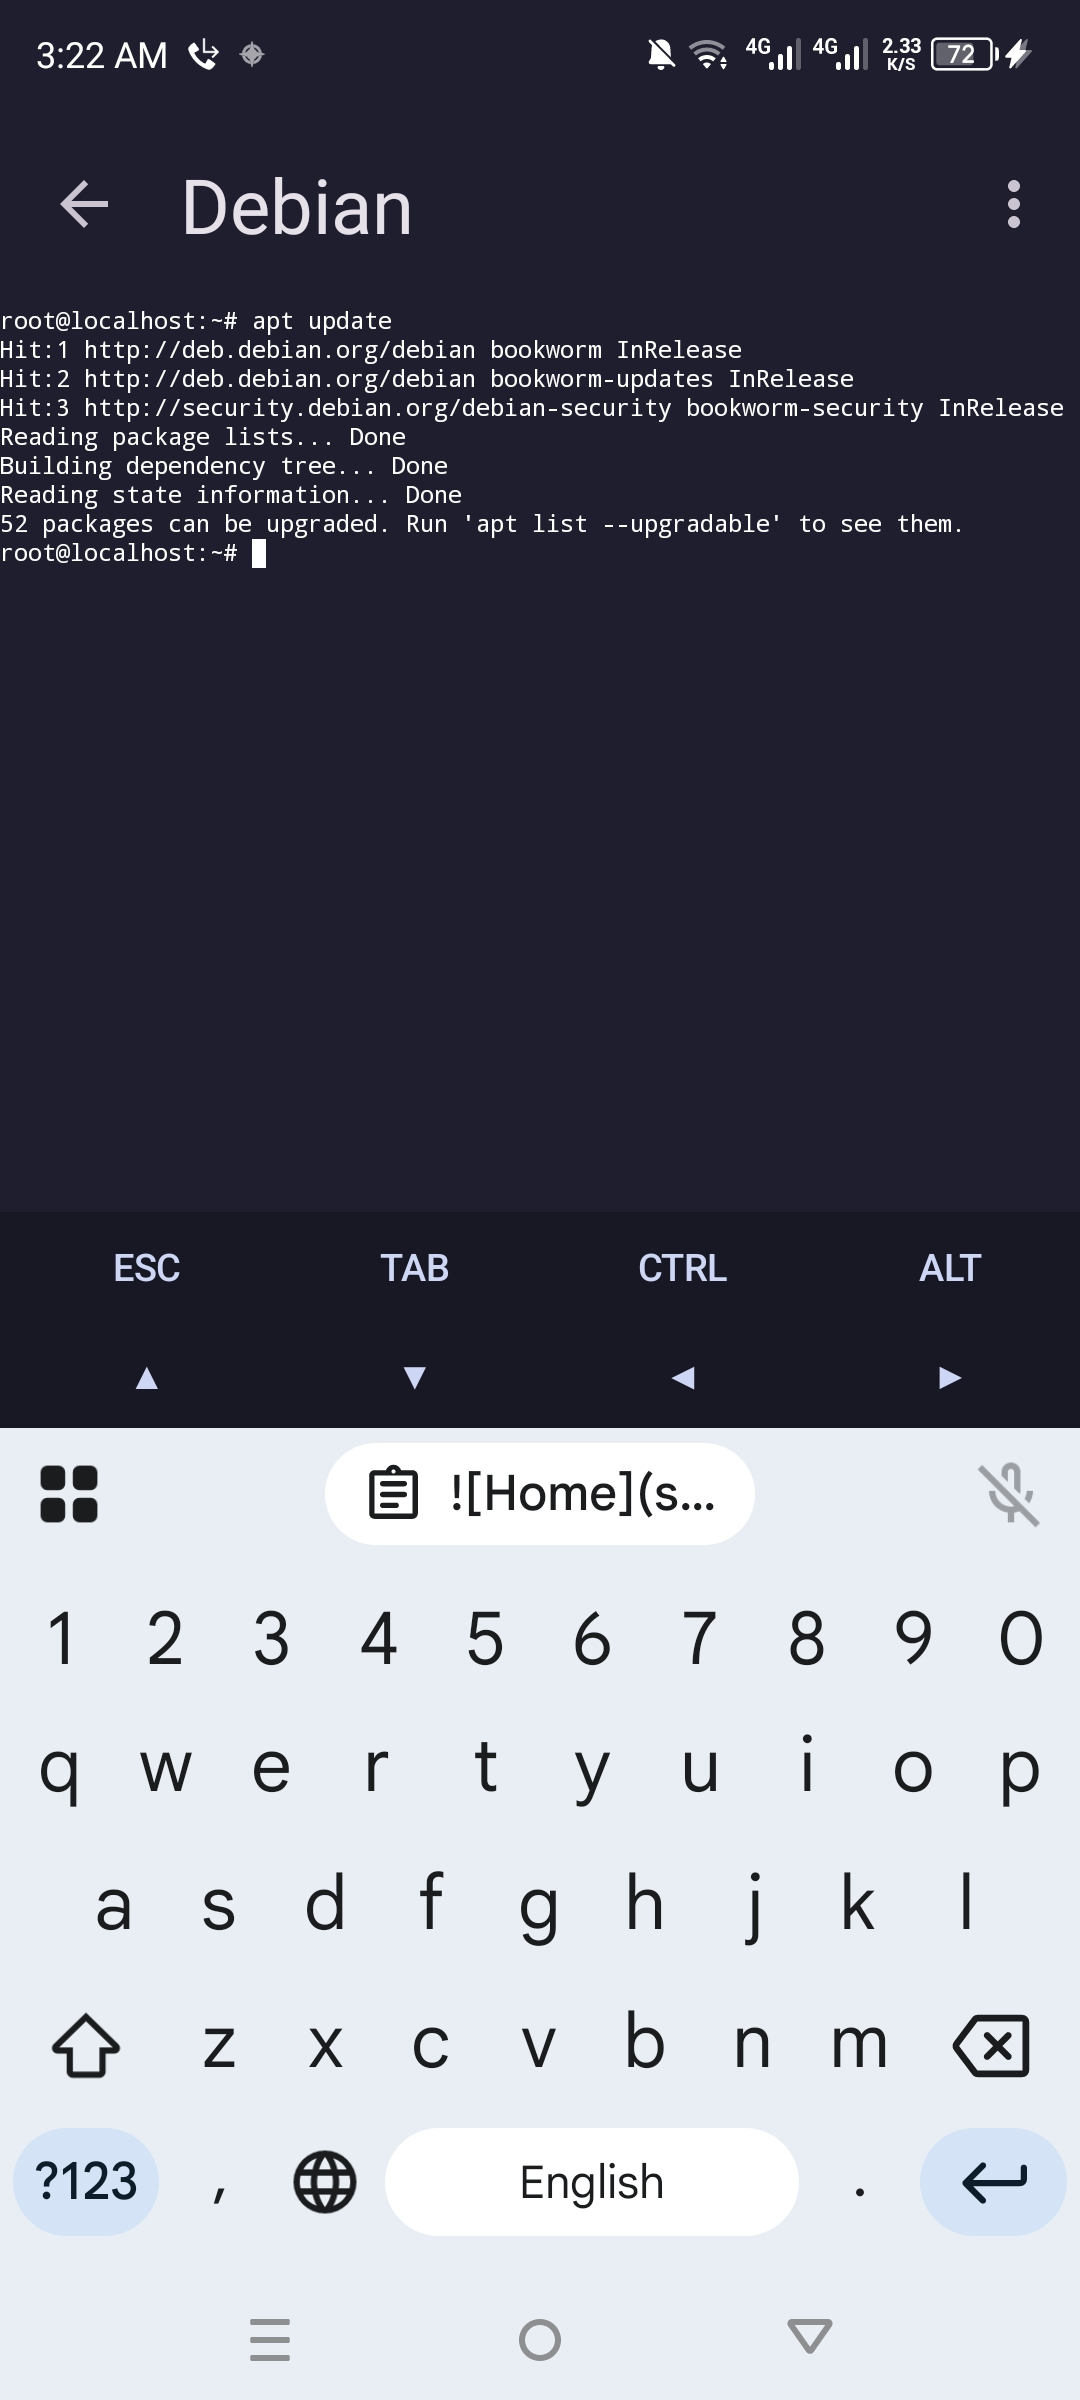
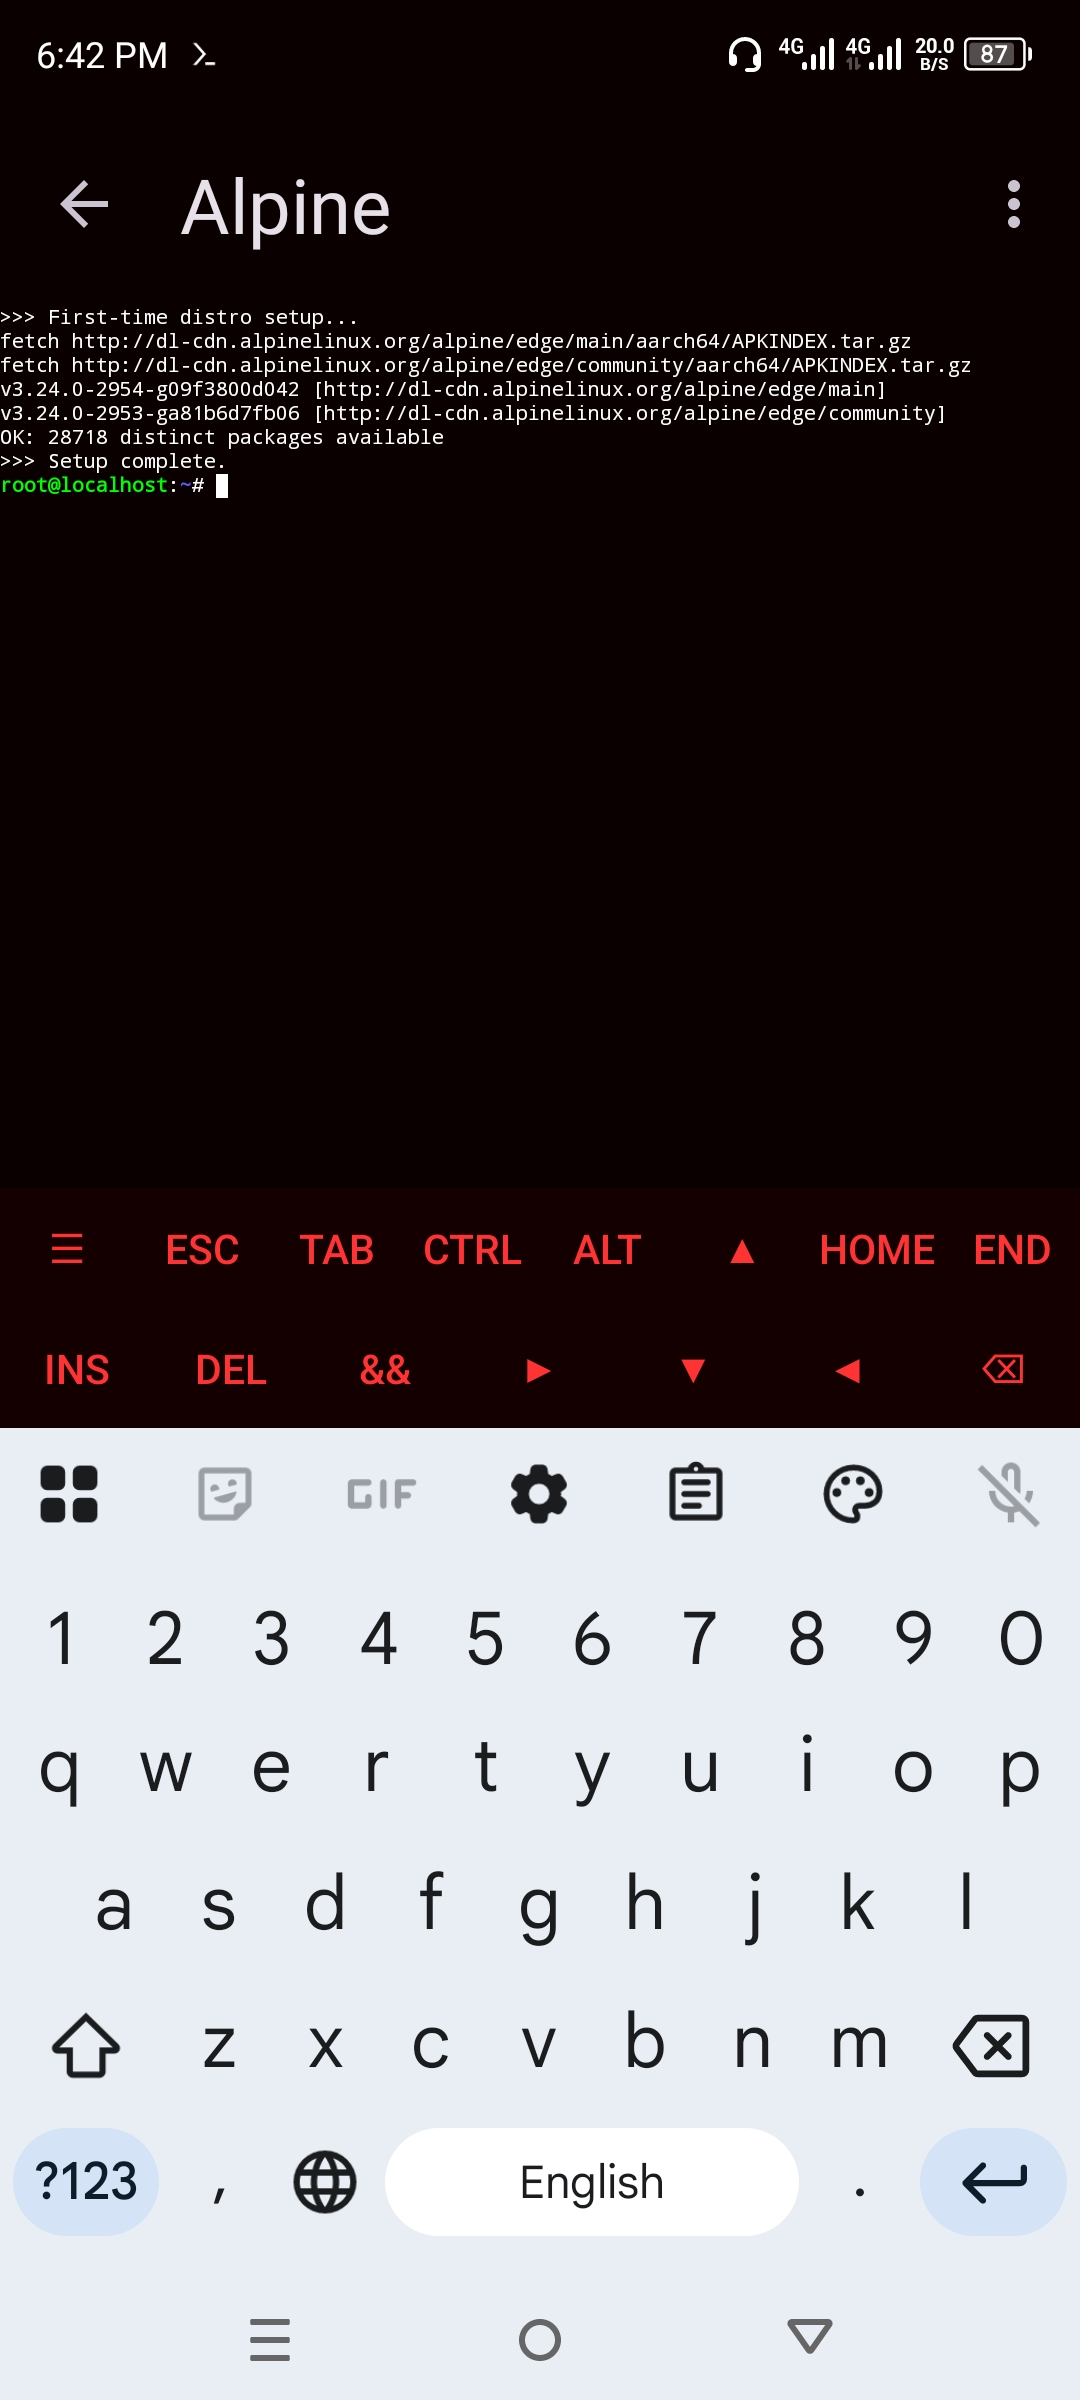
Update screenshots and README

diff --git a/README.md b/README.md
@@ -21,9 +21,9 @@ Built from the [ReTerminal](https://github.com/rustDeku/ReTerminal) proot source
 
 ## Screenshots
 
-| Home | Installed | Terminal |
+| Home | Settings | Terminal |
 |:----:|:---------:|:--------:|
-| ![Home](screenshots/home.jpg) | ![Installed](screenshots/installed.jpg) | ![Terminal](screenshots/terminal.jpg) |
+| ![Home](screenshots/home.jpg) | ![Settings](screenshots/settings.jpg) | ![Terminal](screenshots/terminal.jpg) |
 
 ## Building
 
